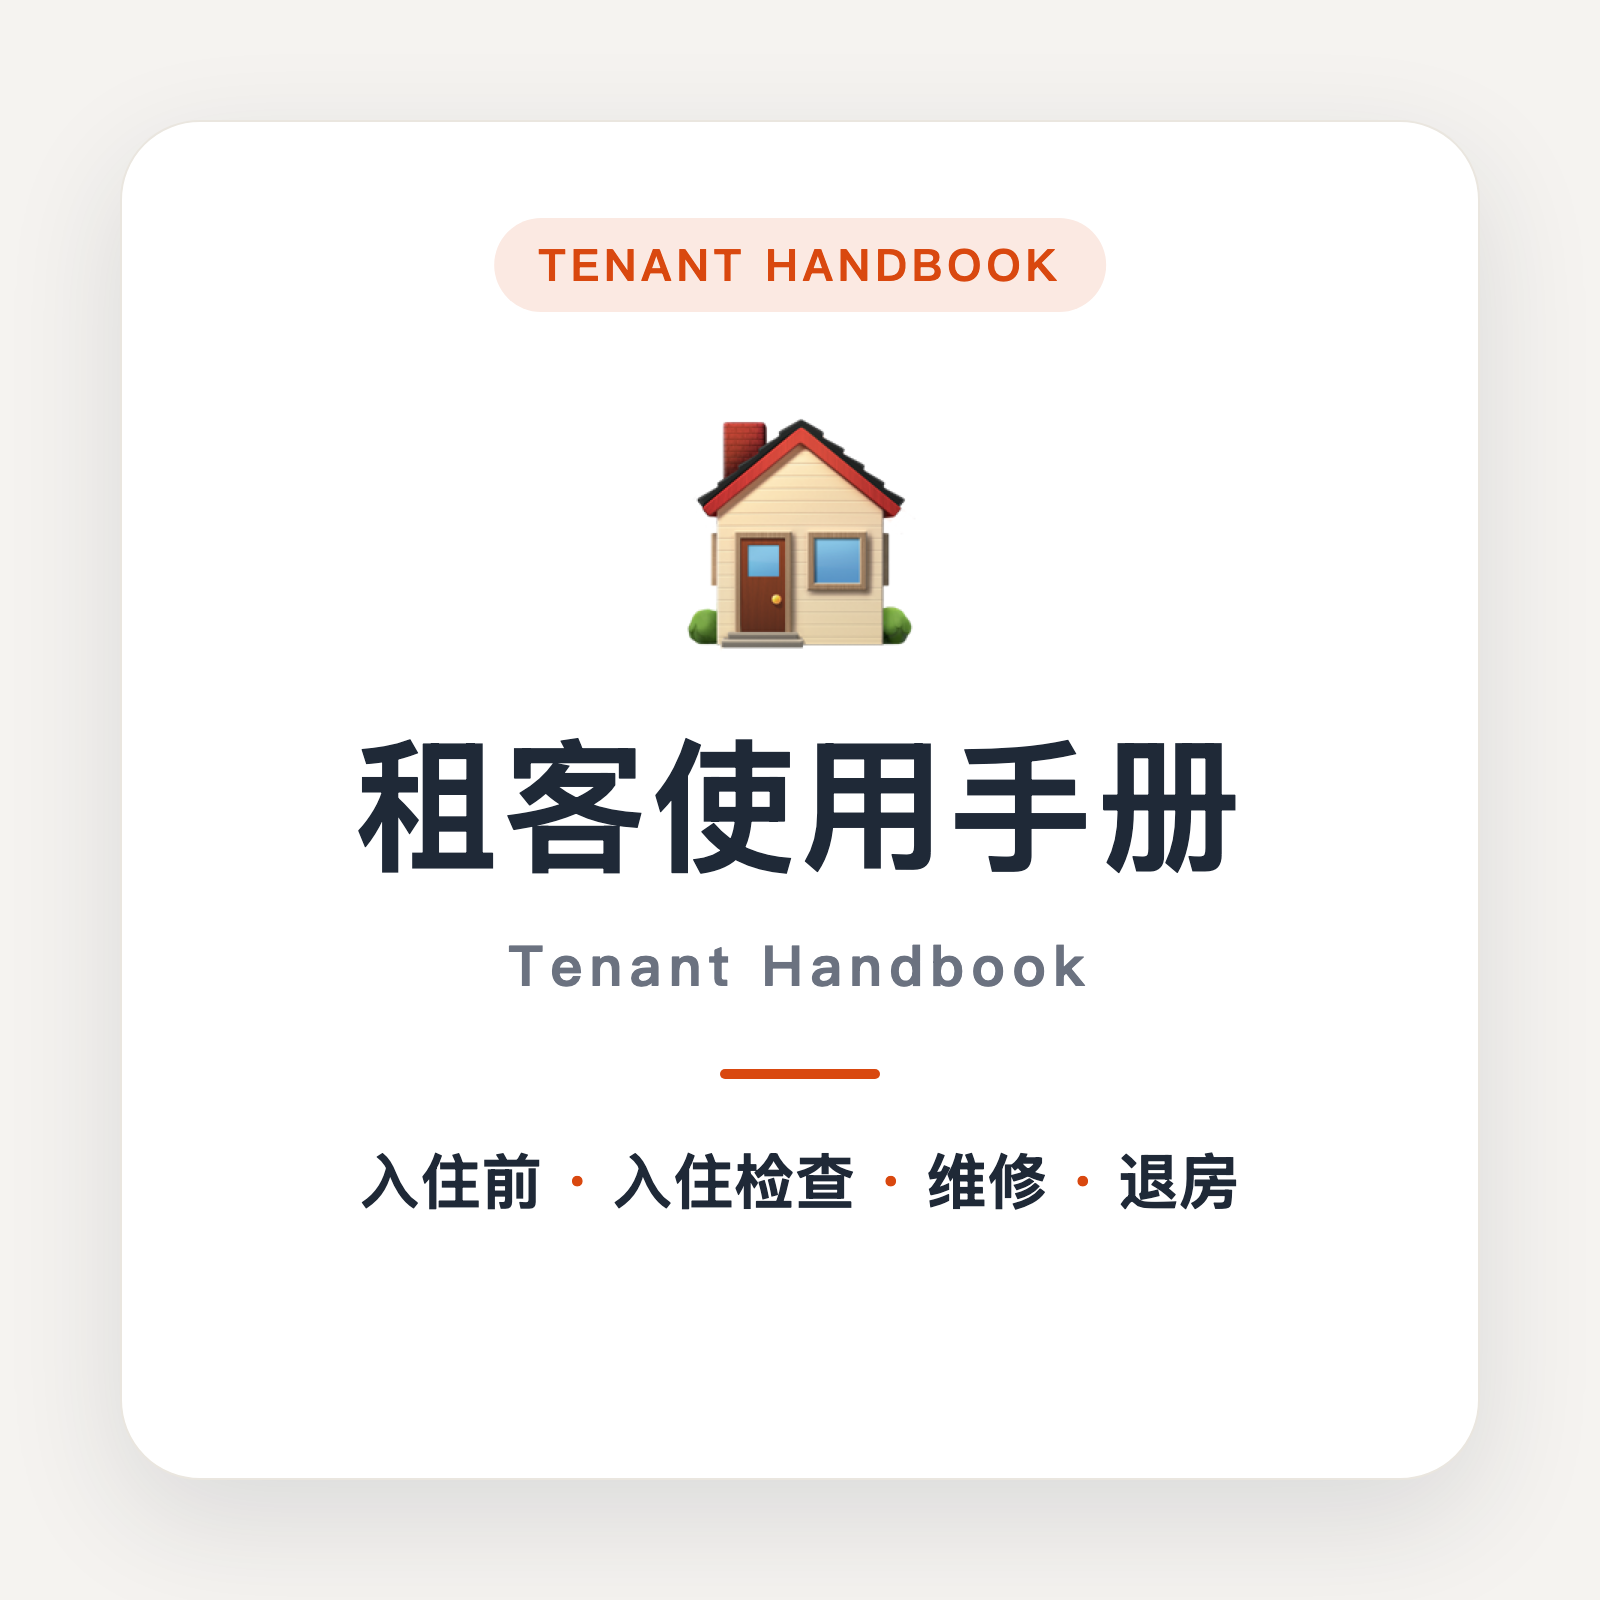
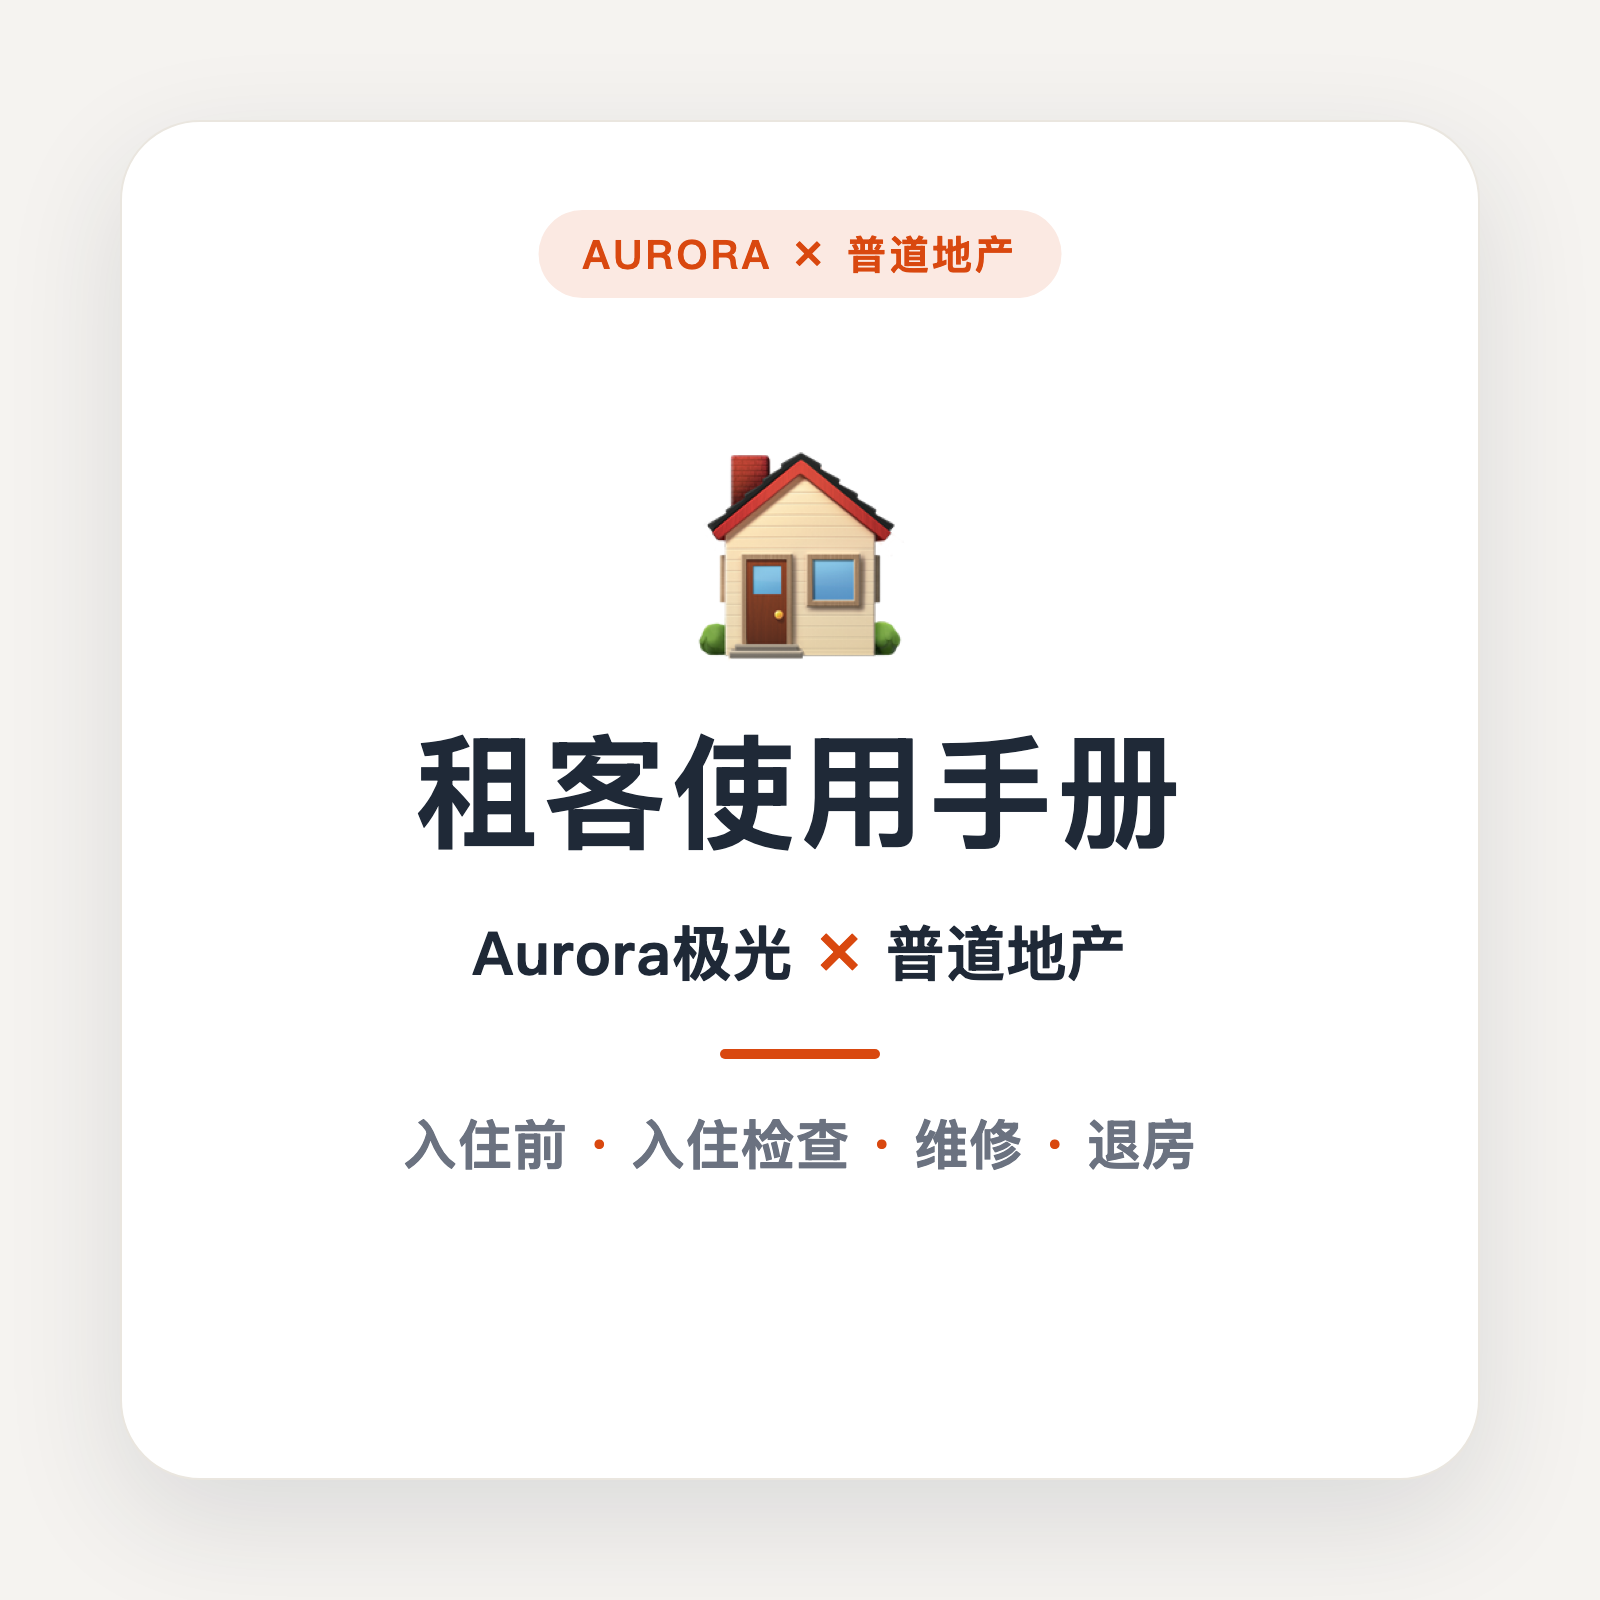
标题改为 Aurora极光×普道地产租客使用手册（含封面图）

diff --git a/index.html b/index.html
@@ -3,10 +3,10 @@
 <head>
 <meta charset="UTF-8">
 <meta name="viewport" content="width=device-width, initial-scale=1, viewport-fit=cover">
-<title>租客使用手册 · 租客使用手册</title>
+<title>Aurora极光 × 普道地产租客使用手册 · Aurora极光 × 普道地产租客使用手册</title>
 <meta property="og:type" content="website">
-<meta property="og:site_name" content="租客使用手册">
-<meta property="og:title" content="租客使用手册">
+<meta property="og:site_name" content="Aurora极光 × 普道地产租客使用手册">
+<meta property="og:title" content="Aurora极光 × 普道地产租客使用手册">
 <meta property="og:description" content="入住前请先阅读，遇到问题先查这里，再联系 Property Manager">
 <meta property="og:image" content="https://ashleykong99.github.io/tenant-handbook/assets/og-cover.png">
 <meta property="og:image:width" content="1600">
@@ -139,7 +139,7 @@ footer b{color:var(--ink)}
 <div class="wrap">
 <div class="hero">
   <div class="kicker">TENANT HANDBOOK</div>
-  <h1>租客使用手册</h1>
+  <h1>Aurora极光 × 普道地产租客使用手册</h1>
   <div class="sub">入住前请先阅读，遇到问题先查这里，再联系 Property Manager</div>
 </div>
 <div class="search-wrap">

diff --git a/notice.html b/notice.html
@@ -3,10 +3,10 @@
 <head>
 <meta charset="UTF-8">
 <meta name="viewport" content="width=device-width, initial-scale=1, viewport-fit=cover">
-<title>📋 入住须知 · 租客使用手册</title>
+<title>📋 入住须知 · Aurora极光 × 普道地产租客使用手册</title>
 <meta property="og:type" content="website">
-<meta property="og:site_name" content="租客使用手册">
-<meta property="og:title" content="入住须知 · 租客使用手册">
+<meta property="og:site_name" content="Aurora极光 × 普道地产租客使用手册">
+<meta property="og:title" content="入住须知 · Aurora极光 × 普道地产租客使用手册">
 <meta property="og:description" content="前台、门禁、快递、设施、搬家、垃圾">
 <meta property="og:image" content="https://ashleykong99.github.io/tenant-handbook/assets/og-cover.png">
 <meta property="og:image:width" content="1600">

diff --git a/contract.html b/contract.html
@@ -3,10 +3,10 @@
 <head>
 <meta charset="UTF-8">
 <meta name="viewport" content="width=device-width, initial-scale=1, viewport-fit=cover">
-<title>📝 合同与转租 · 租客使用手册</title>
+<title>📝 合同与转租 · Aurora极光 × 普道地产租客使用手册</title>
 <meta property="og:type" content="website">
-<meta property="og:site_name" content="租客使用手册">
-<meta property="og:title" content="合同与转租 · 租客使用手册">
+<meta property="og:site_name" content="Aurora极光 × 普道地产租客使用手册">
+<meta property="og:title" content="合同与转租 · Aurora极光 × 普道地产租客使用手册">
 <meta property="og:description" content="续租、加室友、转租">
 <meta property="og:image" content="https://ashleykong99.github.io/tenant-handbook/assets/og-cover.png">
 <meta property="og:image:width" content="1600">

diff --git a/maintenance.html b/maintenance.html
@@ -3,10 +3,10 @@
 <head>
 <meta charset="UTF-8">
 <meta name="viewport" content="width=device-width, initial-scale=1, viewport-fit=cover">
-<title>🔧 维修问题 · 租客使用手册</title>
+<title>🔧 维修问题 · Aurora极光 × 普道地产租客使用手册</title>
 <meta property="og:type" content="website">
-<meta property="og:site_name" content="租客使用手册">
-<meta property="og:title" content="维修问题 · 租客使用手册">
+<meta property="og:site_name" content="Aurora极光 × 普道地产租客使用手册">
+<meta property="og:title" content="维修问题 · Aurora极光 × 普道地产租客使用手册">
 <meta property="og:description" content="密码锁、家电、水电等">
 <meta property="og:image" content="https://ashleykong99.github.io/tenant-handbook/assets/og-cover.png">
 <meta property="og:image:width" content="1600">

diff --git a/emergency.html b/emergency.html
@@ -3,10 +3,10 @@
 <head>
 <meta charset="UTF-8">
 <meta name="viewport" content="width=device-width, initial-scale=1, viewport-fit=cover">
-<title>🚨 突发情况 · 租客使用手册</title>
+<title>🚨 突发情况 · Aurora极光 × 普道地产租客使用手册</title>
 <meta property="og:type" content="website">
-<meta property="og:site_name" content="租客使用手册">
-<meta property="og:title" content="突发情况 · 租客使用手册">
+<meta property="og:site_name" content="Aurora极光 × 普道地产租客使用手册">
+<meta property="og:title" content="突发情况 · Aurora极光 × 普道地产租客使用手册">
 <meta property="og:description" content="钥匙丢失等紧急问题">
 <meta property="og:image" content="https://ashleykong99.github.io/tenant-handbook/assets/og-cover.png">
 <meta property="og:image:width" content="1600">

diff --git a/inspection.html b/inspection.html
@@ -3,10 +3,10 @@
 <head>
 <meta charset="UTF-8">
 <meta name="viewport" content="width=device-width, initial-scale=1, viewport-fit=cover">
-<title>🔍 入住检查 · 租客使用手册</title>
+<title>🔍 入住检查 · Aurora极光 × 普道地产租客使用手册</title>
 <meta property="og:type" content="website">
-<meta property="og:site_name" content="租客使用手册">
-<meta property="og:title" content="入住检查 · 租客使用手册">
+<meta property="og:site_name" content="Aurora极光 × 普道地产租客使用手册">
+<meta property="og:title" content="入住检查 · Aurora极光 × 普道地产租客使用手册">
 <meta property="og:description" content="家具、清洁、换家具">
 <meta property="og:image" content="https://ashleykong99.github.io/tenant-handbook/assets/og-cover.png">
 <meta property="og:image:width" content="1600">

diff --git a/move-out.html b/move-out.html
@@ -3,10 +3,10 @@
 <head>
 <meta charset="UTF-8">
 <meta name="viewport" content="width=device-width, initial-scale=1, viewport-fit=cover">
-<title>🔑 退房 · 租客使用手册</title>
+<title>🔑 退房 · Aurora极光 × 普道地产租客使用手册</title>
 <meta property="og:type" content="website">
-<meta property="og:site_name" content="租客使用手册">
-<meta property="og:title" content="退房 · 租客使用手册">
+<meta property="og:site_name" content="Aurora极光 × 普道地产租客使用手册">
+<meta property="og:title" content="退房 · Aurora极光 × 普道地产租客使用手册">
 <meta property="og:description" content="退房流程、退押金">
 <meta property="og:image" content="https://ashleykong99.github.io/tenant-handbook/assets/og-cover.png">
 <meta property="og:image:width" content="1600">

diff --git a/content.py b/content.py
@@ -706,5 +706,5 @@ CATEGORIES = [
 ]
 
 FOOTER = "如有疑问请联系你的 Property Manager"
-SITE_TITLE = "租客使用手册"
+SITE_TITLE = "Aurora极光 × 普道地产租客使用手册"
 SITE_SUB = "入住前请先阅读，遇到问题先查这里，再联系 Property Manager"
